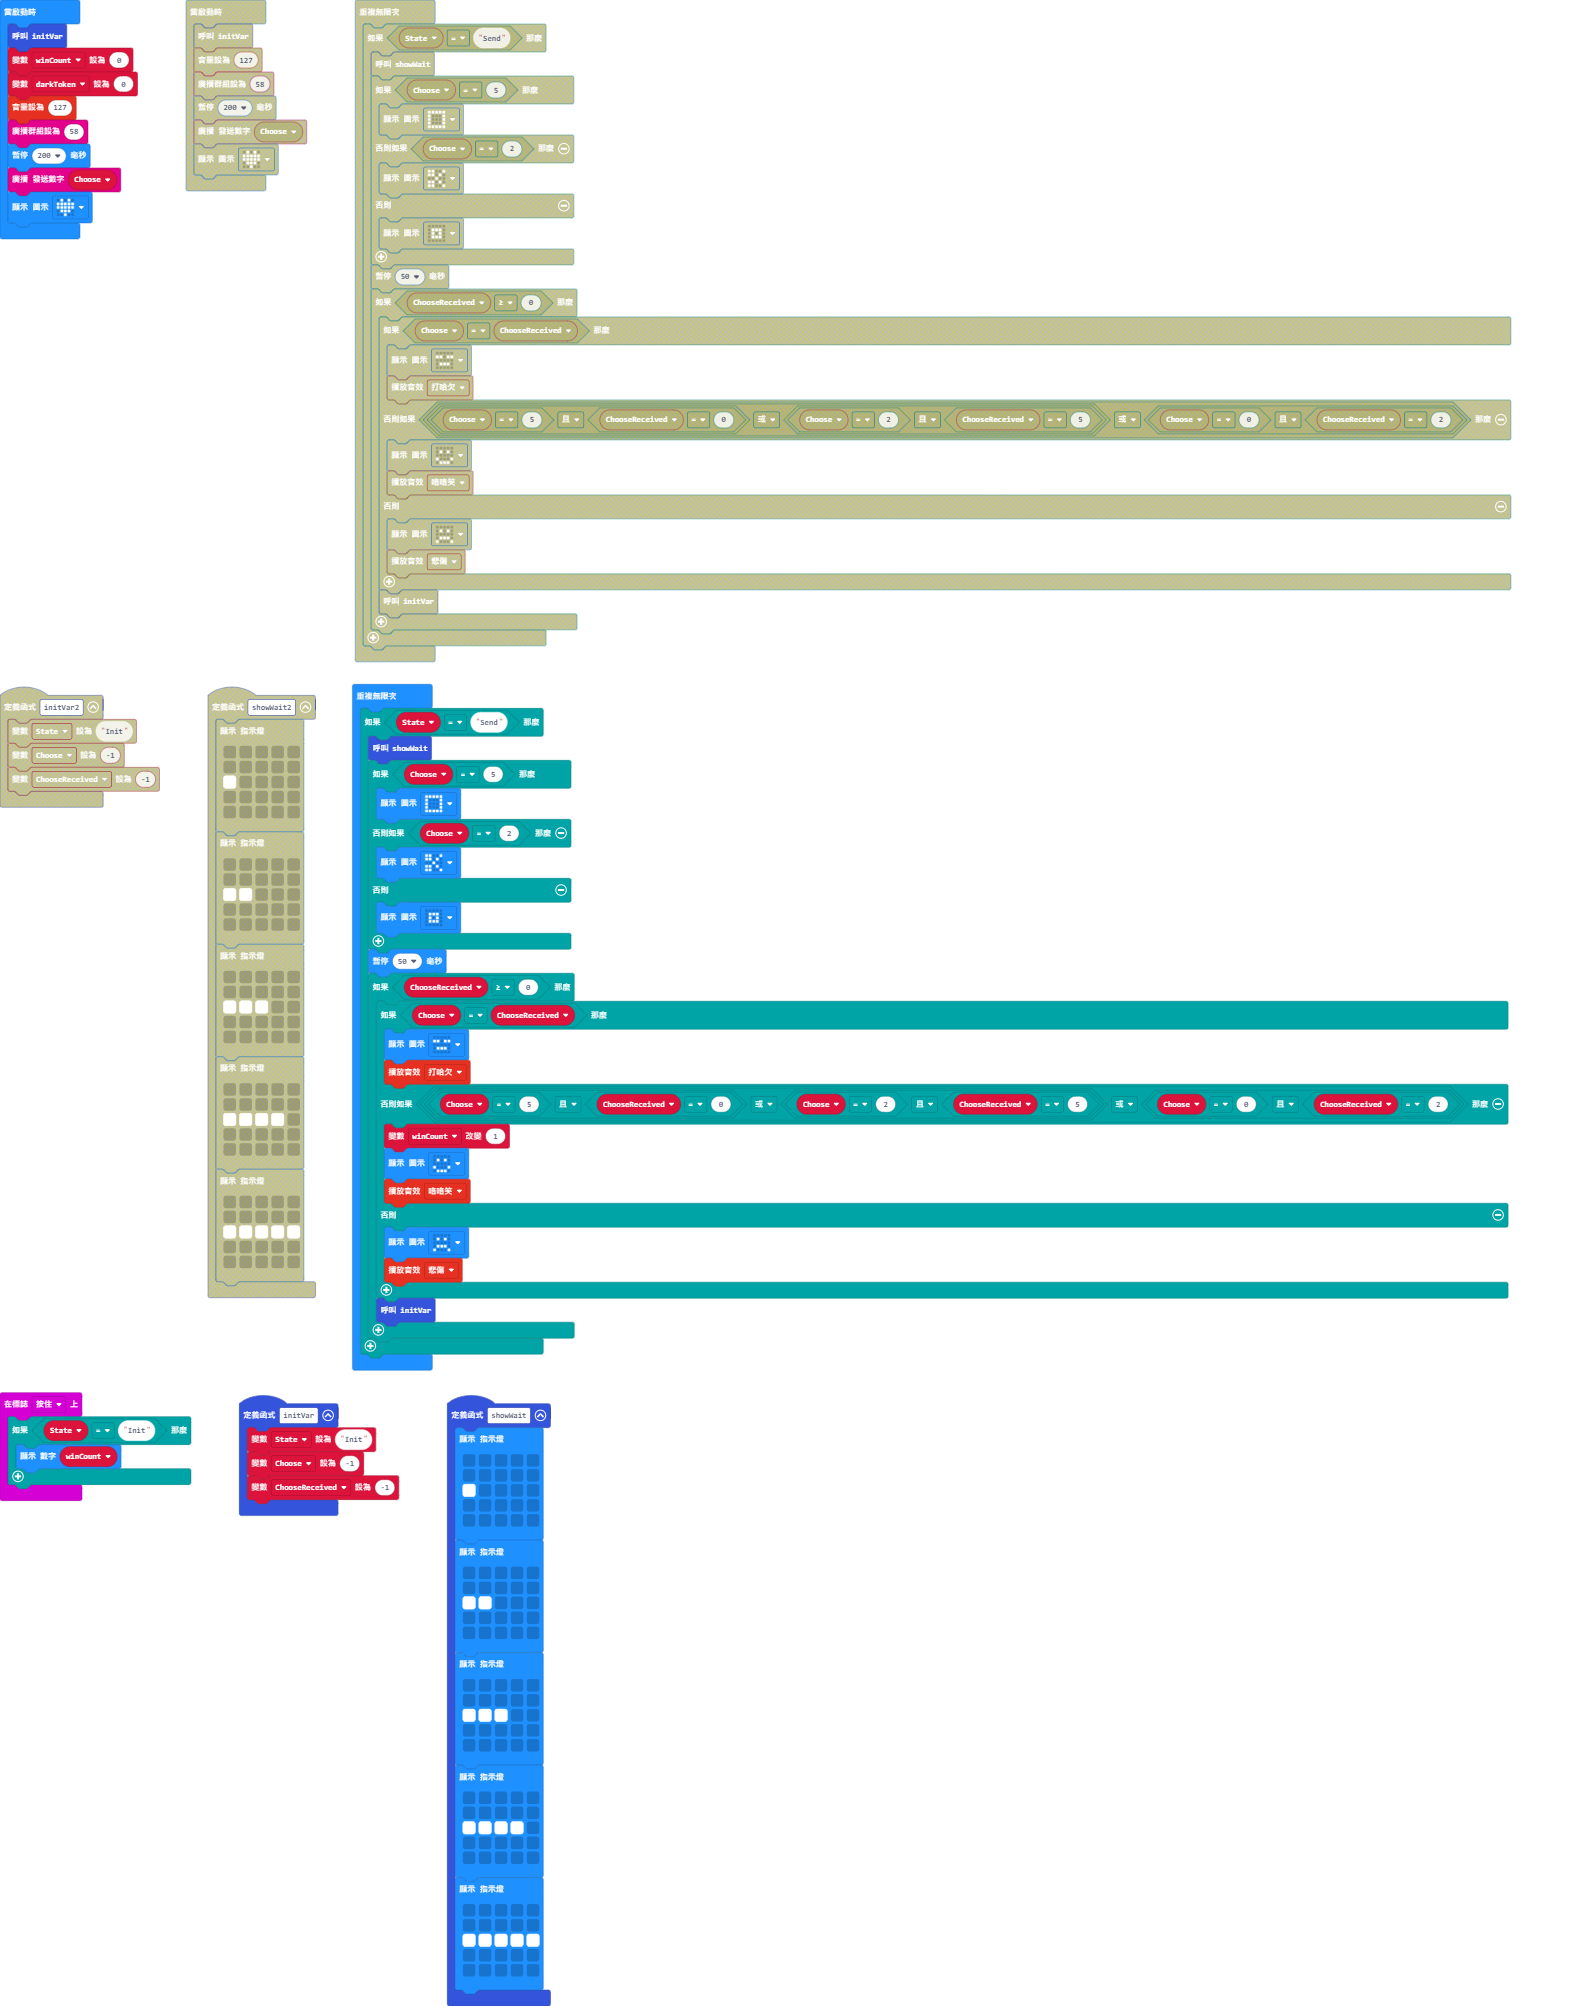
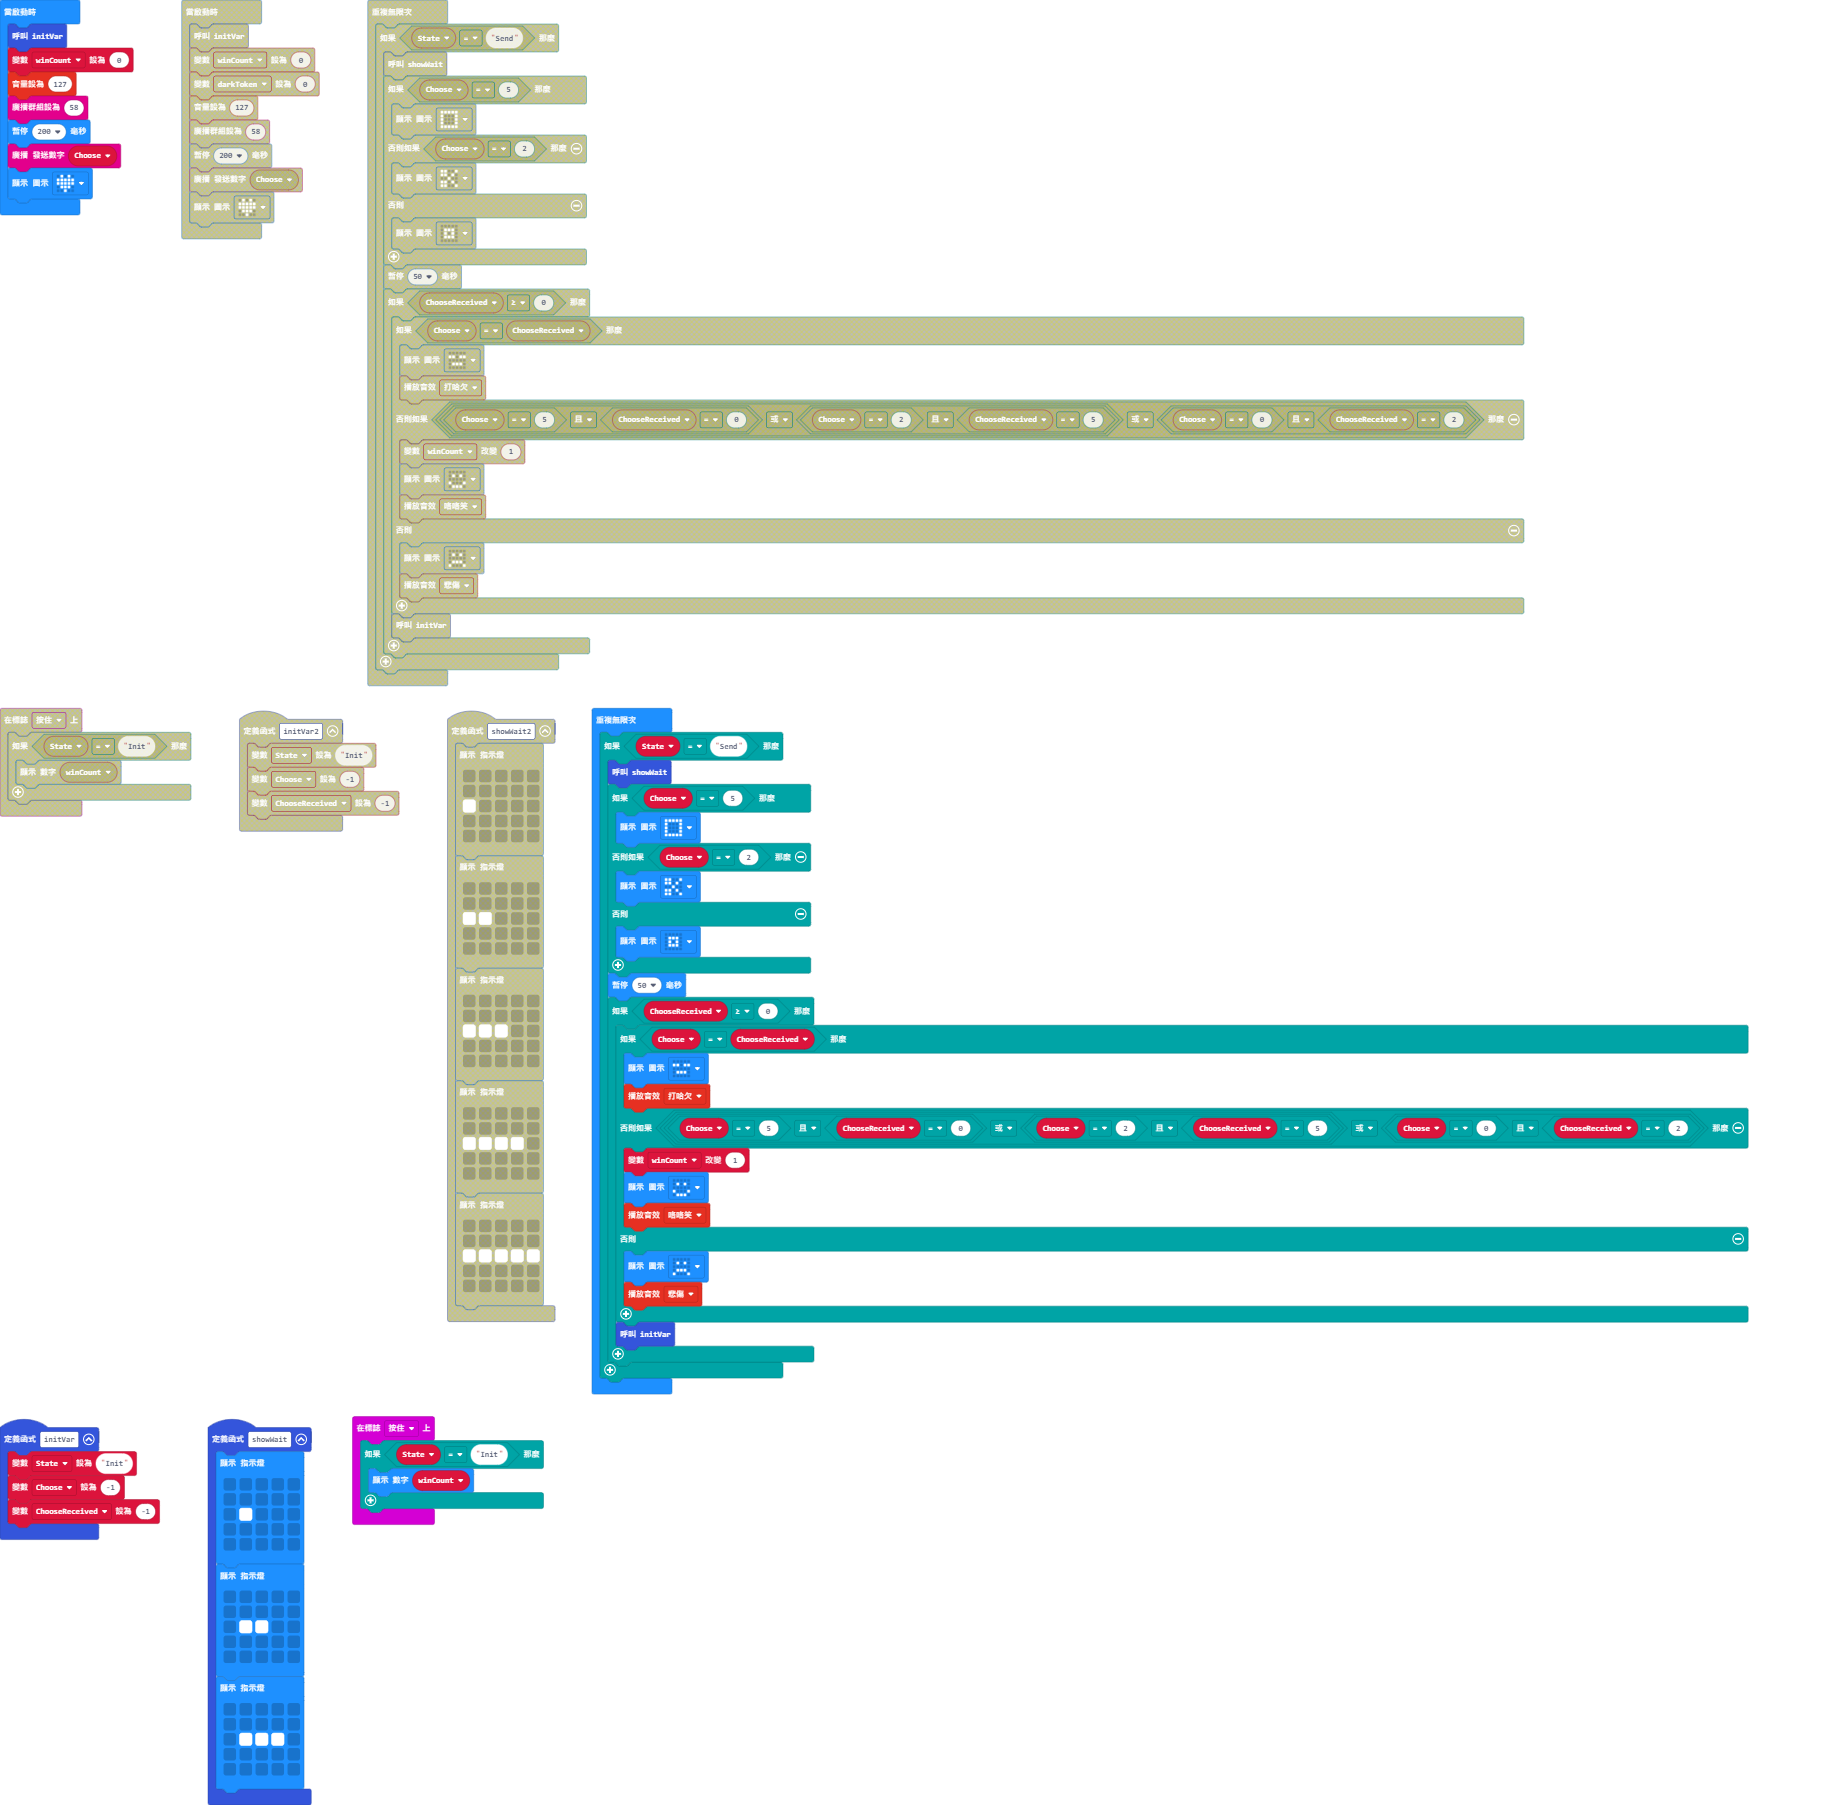
更新 main.blocks, main.ts, main.py

diff --git a/main.ts b/main.ts
@@ -7,35 +7,21 @@ function showWait () {
     basic.showLeds(`
         . . . . .
         . . . . .
-        # . . . .
+        . # . . .
         . . . . .
         . . . . .
         `)
     basic.showLeds(`
         . . . . .
         . . . . .
-        # # . . .
+        . # # . .
         . . . . .
         . . . . .
         `)
     basic.showLeds(`
         . . . . .
         . . . . .
-        # # # . .
-        . . . . .
-        . . . . .
-        `)
-    basic.showLeds(`
-        . . . . .
-        . . . . .
-        # # # # .
-        . . . . .
-        . . . . .
-        `)
-    basic.showLeds(`
-        . . . . .
-        . . . . .
-        # # # # #
+        . # # # .
         . . . . .
         . . . . .
         `)
@@ -85,7 +71,6 @@ let Choose = 0
 let winCount = 0
 initVar()
 winCount = 0
-let darkToken = 0
 music.setVolume(127)
 radio.setGroup(58)
 basic.pause(200)

diff --git a/main.py b/main.py
@@ -59,6 +59,11 @@ def on_gesture_shake():
         basic.pause(100)
 input.on_gesture(Gesture.SHAKE, on_gesture_shake)
 
+def on_logo_pressed():
+    if State == "Init":
+        basic.show_number(winCount)
+input.on_logo_event(TouchButtonEvent.PRESSED, on_logo_pressed)
+
 def on_button_pressed_ab():
     global Choose, State
     if State == "Init" or State == "Chosen":
@@ -84,6 +89,7 @@ input.on_button_pressed(Button.B, on_button_pressed_b)
 State = ""
 ChooseReceived = 0
 Choose = 0
+winCount = 0
 initVar()
 winCount = 0
 music.set_volume(127)
@@ -115,6 +121,4 @@ def on_forever():
                 basic.show_icon(IconNames.SAD)
                 soundExpression.sad.play()
             initVar()
-    elif State == "Init":
-        basic.show_icon(IconNames.ASLEEP)
 basic.forever(on_forever)
